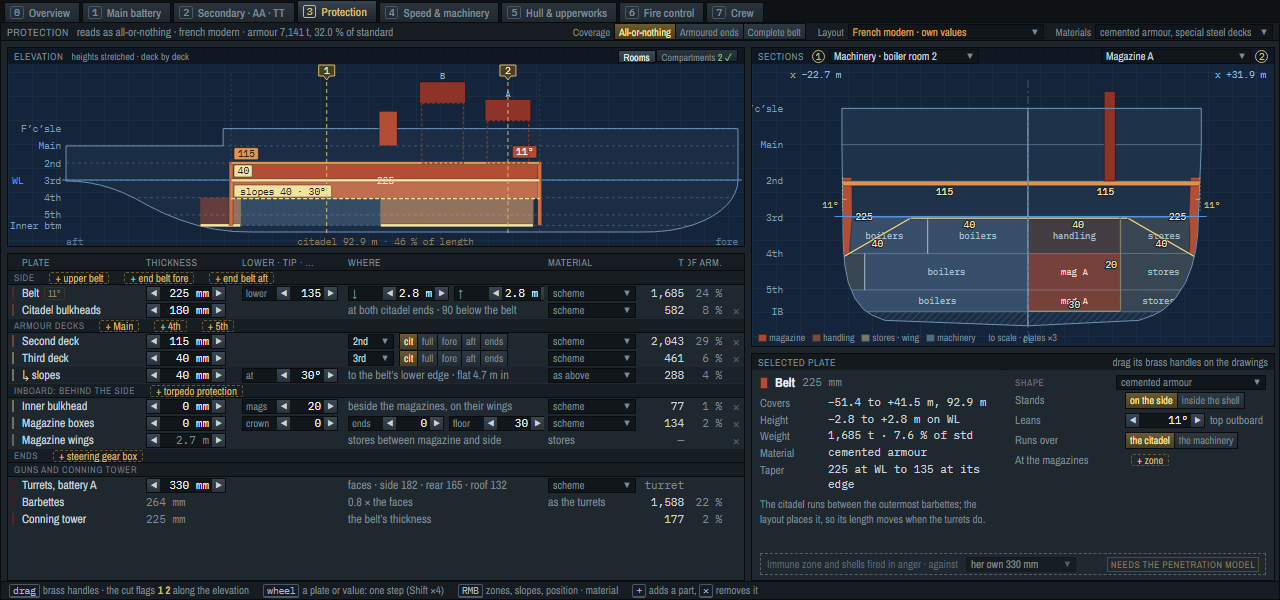
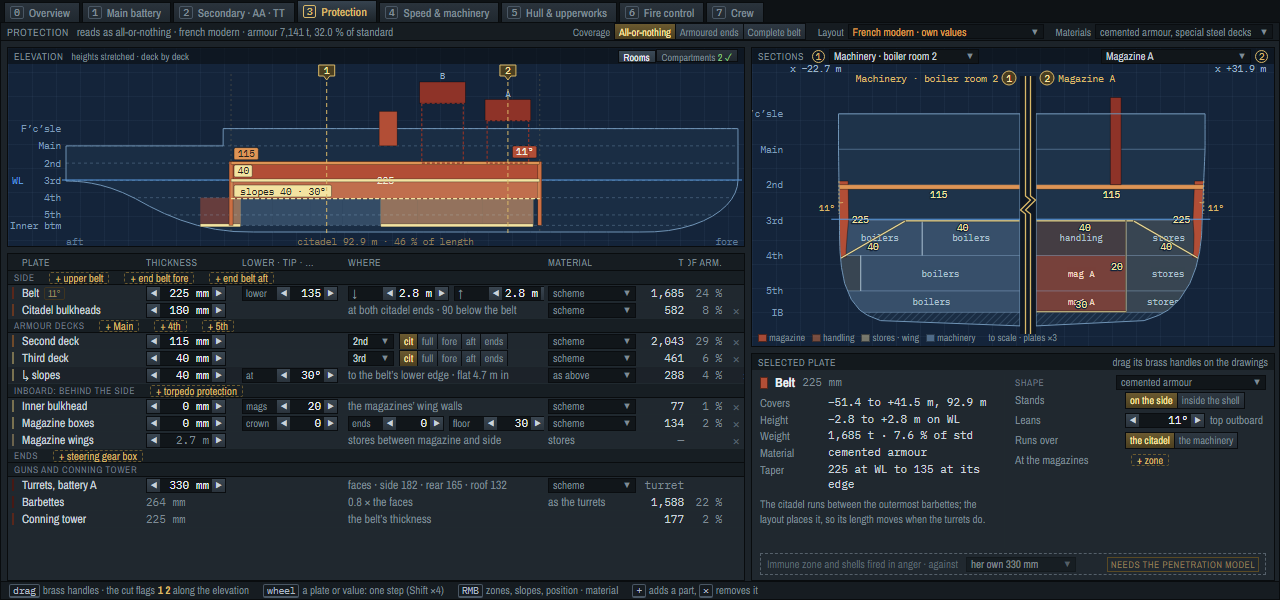
Protection layers mockup: the two cuts split by a gutter and break line, or one whole section
Review: two stations side by side read like a broken profile. A gutter with a
brass break line and numbered badges marks two different cuts; 'Same as the
other' in either dropdown gives one symmetric section.

diff --git a/docs/designer-ui/protection-layers.html b/docs/designer-ui/protection-layers.html
@@ -868,14 +868,17 @@ function elevation() {
 }
 
 // ------------------------------------------------------------------ 2. the sections: two halves, each its own station, to scale, plates ×3
-const SE = {w: 524, h: 300, l: 36, r: 8, t: 38, b: 18};
+const SE = {w: 524, h: 300, l: 36, r: 8, t: 44, b: 18};
 const SZT = Math.max(0, raised ? raised.z : 0) + 1.6, SZB = KEEL - 0.3;
-const sk = Math.min((SE.w - SE.l - SE.r) / 2 / (B / 2 + 0.7), (SE.h - SE.t - SE.b) / (SZT - SZB));
+const GAP = 16;   // the gutter between two different cuts; none when both halves are one station (a whole section)
+const sk = Math.min((SE.w - SE.l - SE.r - GAP) / 2 / (B / 2 + 0.7), (SE.h - SE.t - SE.b) / (SZT - SZB));
 const scx = SE.l + (SE.w - SE.l - SE.r) / 2;
-const sy = (side, y) => scx + side * y * sk;
+const oneCut = () => Math.abs(cuts[0] - cuts[1]) < 0.01;
+const gap = () => oneCut() ? 0 : GAP;
+const sy = (side, y) => scx + side * (gap() / 2 + y * sk);
 const sz = z => SE.t + (SZT - z) * sk;
 const szInv = py => SZT - (py - SE.t) / sk;
-const syInv = px => Math.abs(px - scx) / sk;
+const syInv = px => Math.max(0, Math.abs(px - scx) - gap() / 2) / sk;
 function polyPts(side, pts) { return pts.map(([y, z]) => `${sy(side, y)},${sz(z)}`).join(' '); }
 function cellTip(c, x, cut) {
   const f = KIND[c.k] || KIND.void, wdt = c.y1 - c.y0;
@@ -954,15 +957,27 @@ function sections() {
       svg.append(s('text', {x: sy(side, yb) + side * 4, y: sz(zt - 2.2), 'text-anchor': side > 0 ? 'start' : 'end', 'font-size': 9, fill: '#D9B868', 'pointer-events': 'none'}, `${N0(lean())}°`));
     }
     // the selected part's handles
-    handles.push(...handlesFor(x, side, cut, AP));
+    if (!oneCut() || side > 0) handles.push(...handlesFor(x, side, cut, AP));
     // the half's title: which cut, where
-    svg.append(s('text', {x: k === 0 ? SE.l + 2 : SE.w - SE.r - 2, y: 30, 'text-anchor': k === 0 ? 'start' : 'end', 'font-size': 9.5, fill: '#9CB4CA'}, `x ${sx1(x)} m`));
+    if (!oneCut() || k === 1) svg.append(s('text', {x: k === 0 ? SE.l + 2 : SE.w - SE.r - 2, y: 24, 'text-anchor': k === 0 ? 'start' : 'end', 'font-size': 9.5, fill: '#9CB4CA'}, `x ${sx1(x)} m`));
   });
-  svg.append(s('line', {x1: scx, x2: scx, y1: SE.t - 6, y2: SE.h - SE.b + 4, stroke: 'rgba(156,194,226,0.35)', 'stroke-dasharray': '8 3 2 3'}));
-  svg.append(s('text', {x: scx, y: SE.h - 5, 'text-anchor': 'middle', 'font-size': 9, fill: '#5E7A96'}, 'CL'));
+  if (oneCut()) {   // one station: a whole section, its centreline
+    svg.append(s('line', {x1: scx, x2: scx, y1: SE.t - 6, y2: SE.h - SE.b + 4, stroke: 'rgba(156,194,226,0.35)', 'stroke-dasharray': '8 3 2 3'}));
+    svg.append(s('text', {x: scx, y: SE.t - 9, 'text-anchor': 'middle', 'font-size': 9, fill: '#5E7A96'}, 'CL'));
+  } else {   // two stations: a gutter with a break line, a numbered badge each side
+    const y0 = SE.t - 16, y1 = SE.h - SE.b + 4, ym = (y0 + y1) / 2, a = scx - 2.5, b = scx + 2.5;
+    svg.append(s('rect', {x: scx - GAP / 2, y: y0, width: GAP, height: y1 - y0, fill: '#0E1621', opacity: 0.9}));
+    for (const xx of [a, b]) svg.append(s('path', {d: `M${xx},${y0} V${ym - 9} l5,4 l-10,10 l5,4 V${y1}`, fill: 'none', stroke: '#D9B868', 'stroke-width': 1.3, 'stroke-linejoin': 'round'}));
+    for (const [k, side] of [[0, -1], [1, 1]]) {
+      const cx = scx + side * (GAP / 2 + 11), cy = SE.t - 14;
+      svg.append(s('circle', {cx, cy, r: 7, fill: '#4A3E20', stroke: '#D9B868', 'stroke-width': 1}));
+      svg.append(s('text', {x: cx, y: cy + 3.5, 'text-anchor': 'middle', 'font-size': 9.5, fill: '#FFE7A8'}, String(k + 1)));
+      svg.append(s('text', {x: cx + side * 11, y: cy + 3.5, 'text-anchor': side < 0 ? 'end' : 'start', 'font-size': 9.5, fill: '#D9B868'}, cutName(cuts[k])));
+    }
+  }
   for (const hd of handles) svg.append(hd);
   // the header: the two cuts' pickers
-  const pick = k => h('span', {class: 'dd', style: 'width:150px', onclick: ev => { ev.stopPropagation(); menu(ev, cutItems(k)); }}, h('span', {}, cutName(cuts[k])), h('i', {}, '▼'));
+  const pick = k => h('span', {class: 'dd', style: 'width:150px', onclick: ev => { ev.stopPropagation(); const r = ev.currentTarget.getBoundingClientRect(), a = $('app').getBoundingClientRect(); menu(ev, cutItems(k), [r.left - a.left, r.bottom - a.top + 1]); }}, h('span', {}, cutName(cuts[k])), h('i', {}, '▼'));
   const hd = h('div', {class: 'bh'}, 'Sections',
     h('span', {class: 'cut'}, h('span', {class: 'n'}, '1'), pick(0)),
     h('b', {}, h('span', {class: 'cut'}, pick(1), h('span', {class: 'n'}, '2'))));
@@ -975,6 +990,8 @@ function sections() {
 }
 function cutItems(k) {
   const items = [{head: `Section ${k + 1}: cut at`}];
+  const o = cuts[1 - k];
+  items.push({lab: `Same as ${2 - k}: one whole section`, key: cutName(o), cur: oneCut(), fn: () => { cuts[k] = o; }}, 'sep');
   for (const q of STOPS) items.push({lab: q.id === 'mach' ? `Machinery (${q.sub.toLowerCase()})` : q.lab, key: `x ${sx1(q.x)}`, cur: Math.abs(cuts[k] - q.x) < 0.01, fn: () => { cuts[k] = q.x; }});
   return items;
 }

diff --git a/docs/designer-ui/protection-layers.md b/docs/designer-ui/protection-layers.md
@@ -36,11 +36,18 @@ Kent at 18 and a destroyer at 27, against about 9 before.
 
 ## 1. Sections: two cuts, one half each
 
-A ship is symmetric, so each half of the drawing is its own station, as in a naval architect's "section at frame 120 |
-section at frame 160". The defaults are **1, the machinery** (the room nearest midships) on the left and **2, the
+A ship is symmetric, so each half of the drawing can be its own station, as in a naval architect's "section at frame
+120 | section at frame 160". The defaults are **1, the machinery** (the room nearest midships) on the left and **2, the
 foremost main magazine** on the right. Side by side, they show the two places the protection is built for, and where
 they differ: a zone, a box, the inner bulkhead's thicker plate beside the magazines, a wing, a platform deck.
 
+- **The split is unmistakable.** A dark gutter divides two different cuts, with a brass break line (the drawing
+  convention for a cut-away), and a numbered badge on each side carries that half's name, matching the flags on the
+  elevation. Each half's x stands at its outer top corner. Without it, two stations read like a broken profile (review,
+  2026-10-16): the deck steps where one cut has the forecastle and the other doesn't, and the finer bow side flares.
+- **One whole section when you want it.** Each dropdown's first item is "Same as the other: one whole section". Both
+  halves then cut at one station, the gutter closes to a plain centreline, and the handles draw once, on the starboard
+  side (`protection-layers-bismarck-whole.png`). Moving either flag apart splits them again.
 - **Choosing the cuts.** Each half has a dropdown in the header (Machinery · each magazine · fore end · aft end). On the
   elevation, two brass flags `1` `2` mark the cuts; you drag them along the ship and they snap to those stops within 3 m.
 - **The cells,** from the build: each space tinted by what it holds (magazine, handling room, stores, TDS, machinery,
@@ -185,7 +192,7 @@ sides on the wing wall, wings never fuel.
 
 ## Questions for the review
 
-1. Two half-sections by default, machinery and the foremost magazine. Or one full section with a station picker?
+1. ~~Two half-sections or one full section?~~ Settled 2026-10-16: two cuts by default, the split made unmistakable (gutter, break line, badges), and "Same as the other" for one whole section.
 2. Sub-rows for zones and slopes in the table, as well as Shape. Or Shape only, keeping the table one row per part?
 3. The Compartments toggle here. Or on the Hull tab later?
 4. Layout in the sub-bar and in the Templates panel. Or only one of them?
@@ -209,7 +216,7 @@ sides on the wing wall, wings never fuel.
 end_aft, bulk, deckN, slopeN, dzoneN, tds, inner, box, wings, steer, main0, barb, ct), `&cut1=` and `&cut2=` (mach,
 mag:A, fore, aft, or x in m), `&do=` edits, comma-separated `path:value` on the armour input
 (`belt_incline_deg:15`, `tds_layers:3`, `magazine_box.side_mm:25`, `layout:german_bulkhead`, `KEY:del`),
-`&menu=layout|cut1|cut2|ID`, `&tip=layout:N|cell:K:N|handle|comp`, `&rooms=0`, `&comp=1`.
+`&cut2=mach` with the default `cut1` gives one whole section; `&menu=layout|cut1|cut2|ID`, `&tip=layout:N|cell:K:N|handle|comp`, `&rooms=0`, `&comp=1`.
 
 Screenshots (`png/protection-layers-*.png`):
 
@@ -223,3 +230,5 @@ Screenshots (`png/protection-layers-*.png`):
 - `destroyer-box`: a 25 mm box and 1.6 m wings added.
 - `layout-menu`: the Layout list, hovering German bulkhead.
 - `dread-german`: German bulkhead applied.
+- `bismarck-whole`: both cuts at the machinery, one whole section, the slopes selected.
+- `cutmenu`: section 2's dropdown, with "Same as 1" first.

diff --git a/docs/designer-ui/README.md b/docs/designer-ui/README.md
@@ -208,7 +208,8 @@ the port plan and the open questions are in `protection.md`. `?ship=dreadnought|
 H8b of `docs/shipgen/protection-plan.md`: the tab learns slopes, inclined and internal belts, zones, belt extent, the
 inner bulkhead, magazine boxes and wings, TDS layers, platform decks, the layout templates and the compartment check.
 The midship section becomes two half-sections, each cut at its own station (machinery and a magazine by default, flags
-`1` `2` on the elevation), with the cells' contents tinted. The table gains sub-rows (zones, slopes) and an Inboard
+`1` `2` on the elevation), split by a gutter with a break line, or one whole section when both pick the same station;
+the cells' contents tinted. The table gains sub-rows (zones, slopes) and an Inboard
 group; the selected plate gains a Shape column; the sub-bar gains Layout. Real builds of seven designs
 (`protection-layers-data.js`); `?ship=bismarck|dreadnought|nelson|kent|dunkerque|kgv|destroyer`. The reasoning, the
 findings, the review questions and the port plan are in `protection-layers.md`.
@@ -225,6 +226,8 @@ findings, the review questions and the port plan are in `protection-layers.md`.
 | `png/protection-layers-destroyer-box.png` | a destroyer given a 25 mm box and 1.6 m wings |
 | `png/protection-layers-layout-menu.png` | the Layout list, hovering German bulkhead |
 | `png/protection-layers-dread-german.png` | Dreadnought after German bulkhead |
+| `png/protection-layers-bismarck-whole.png` | both cuts at one station: a whole section |
+| `png/protection-layers-cutmenu.png` | section 2's dropdown, "Same as 1" first |
 
 ## Screenshots (`png/`)
 
